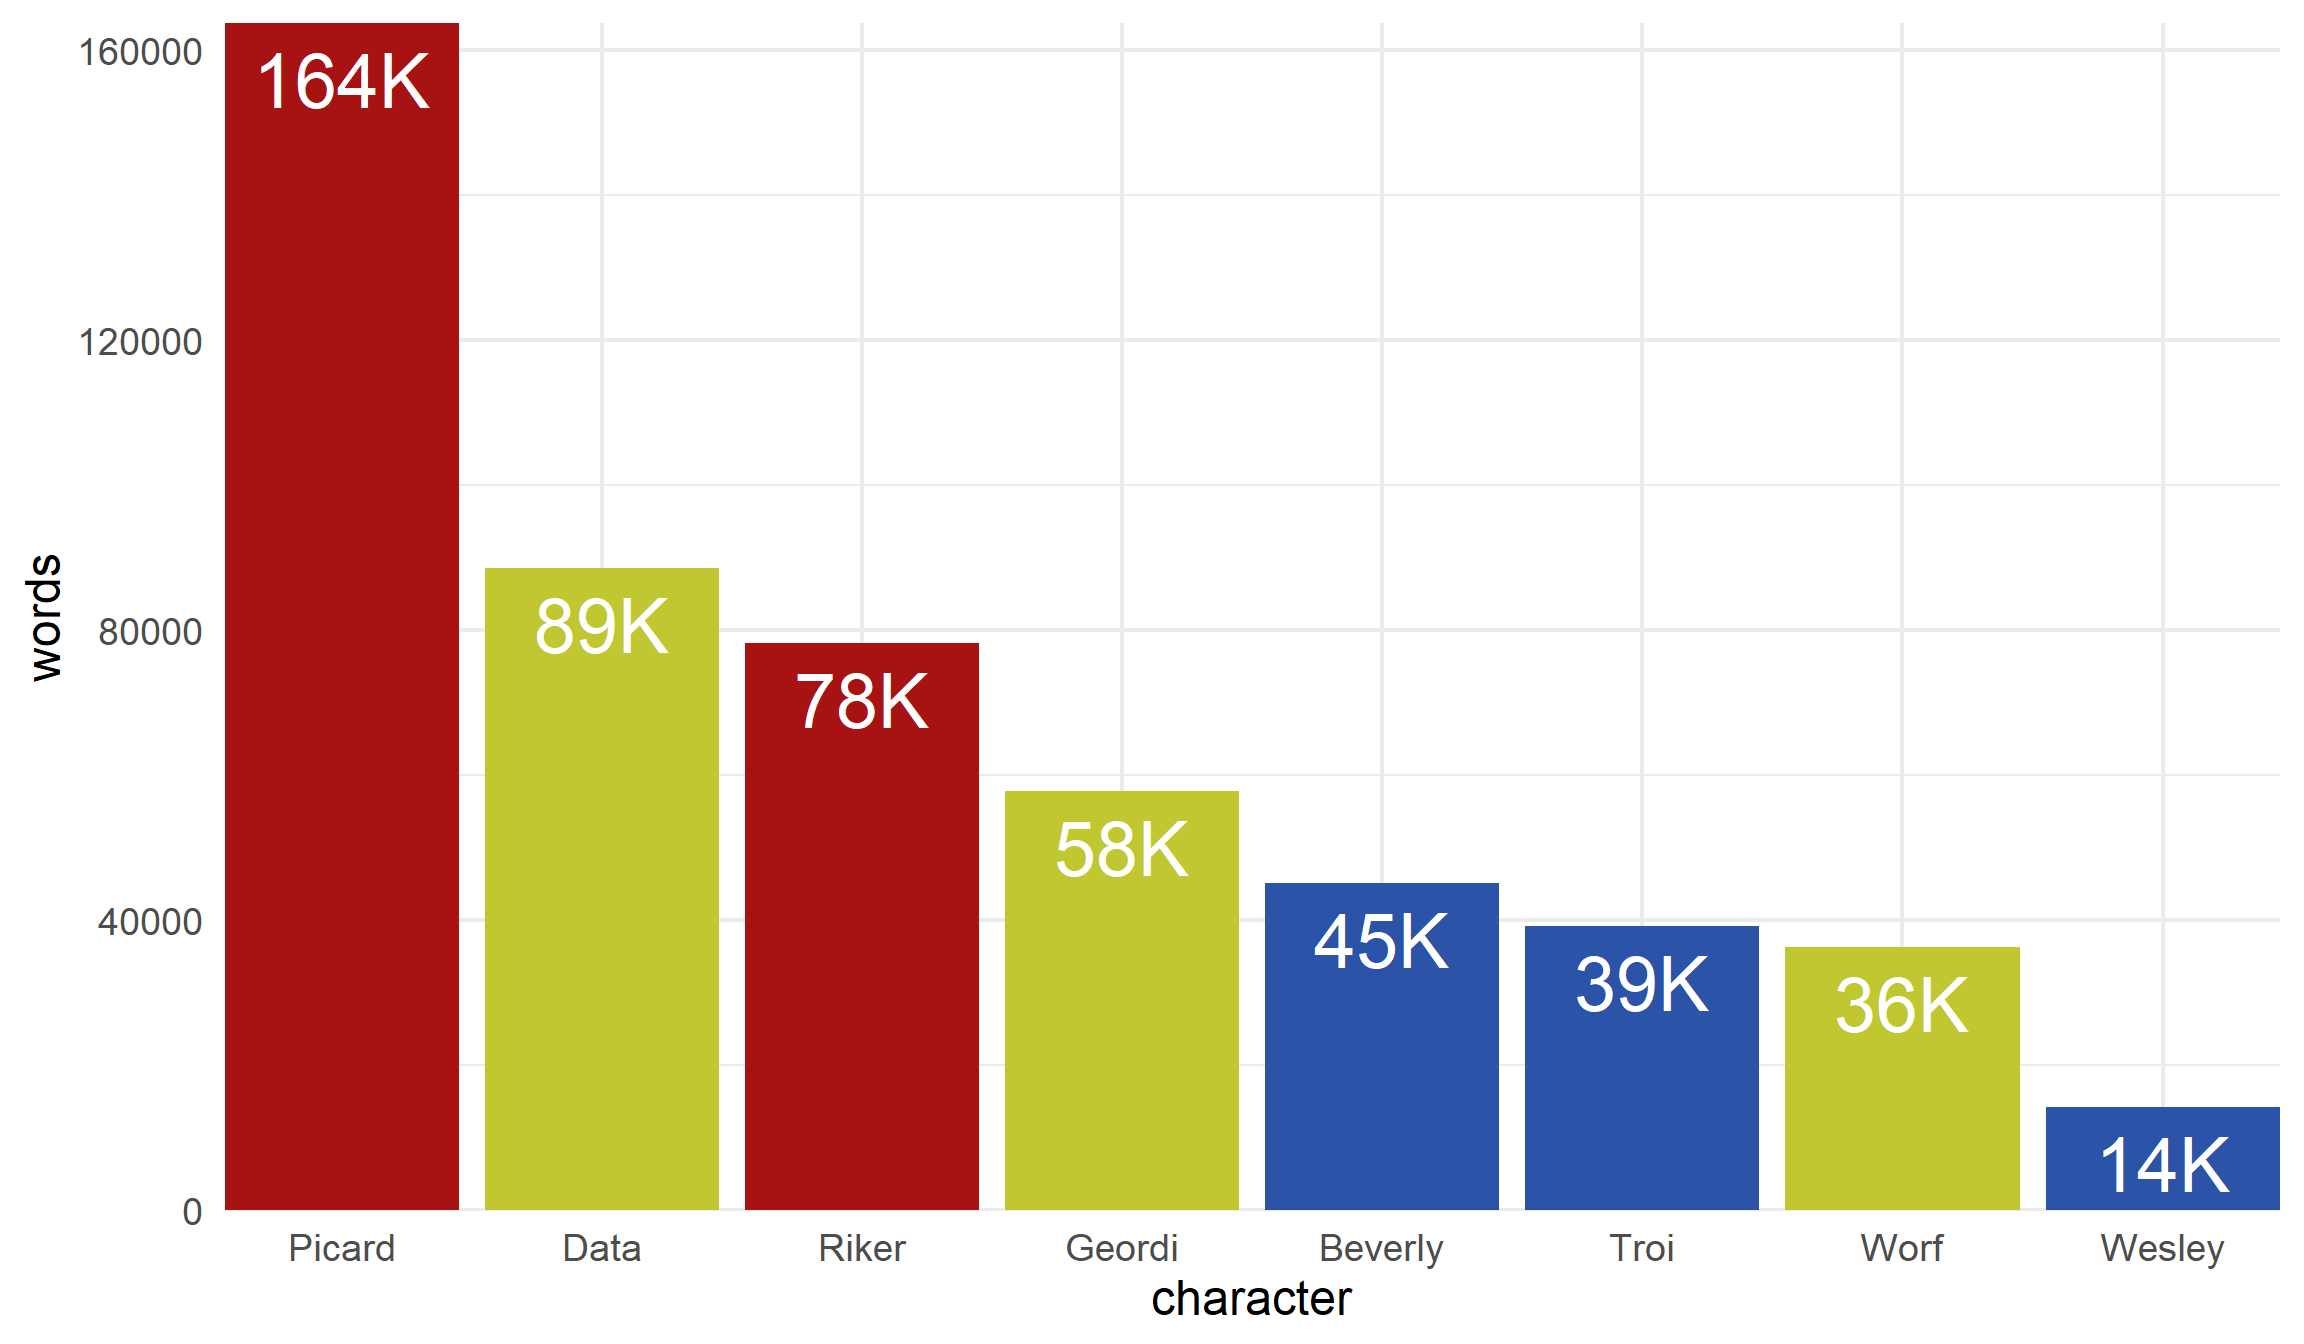
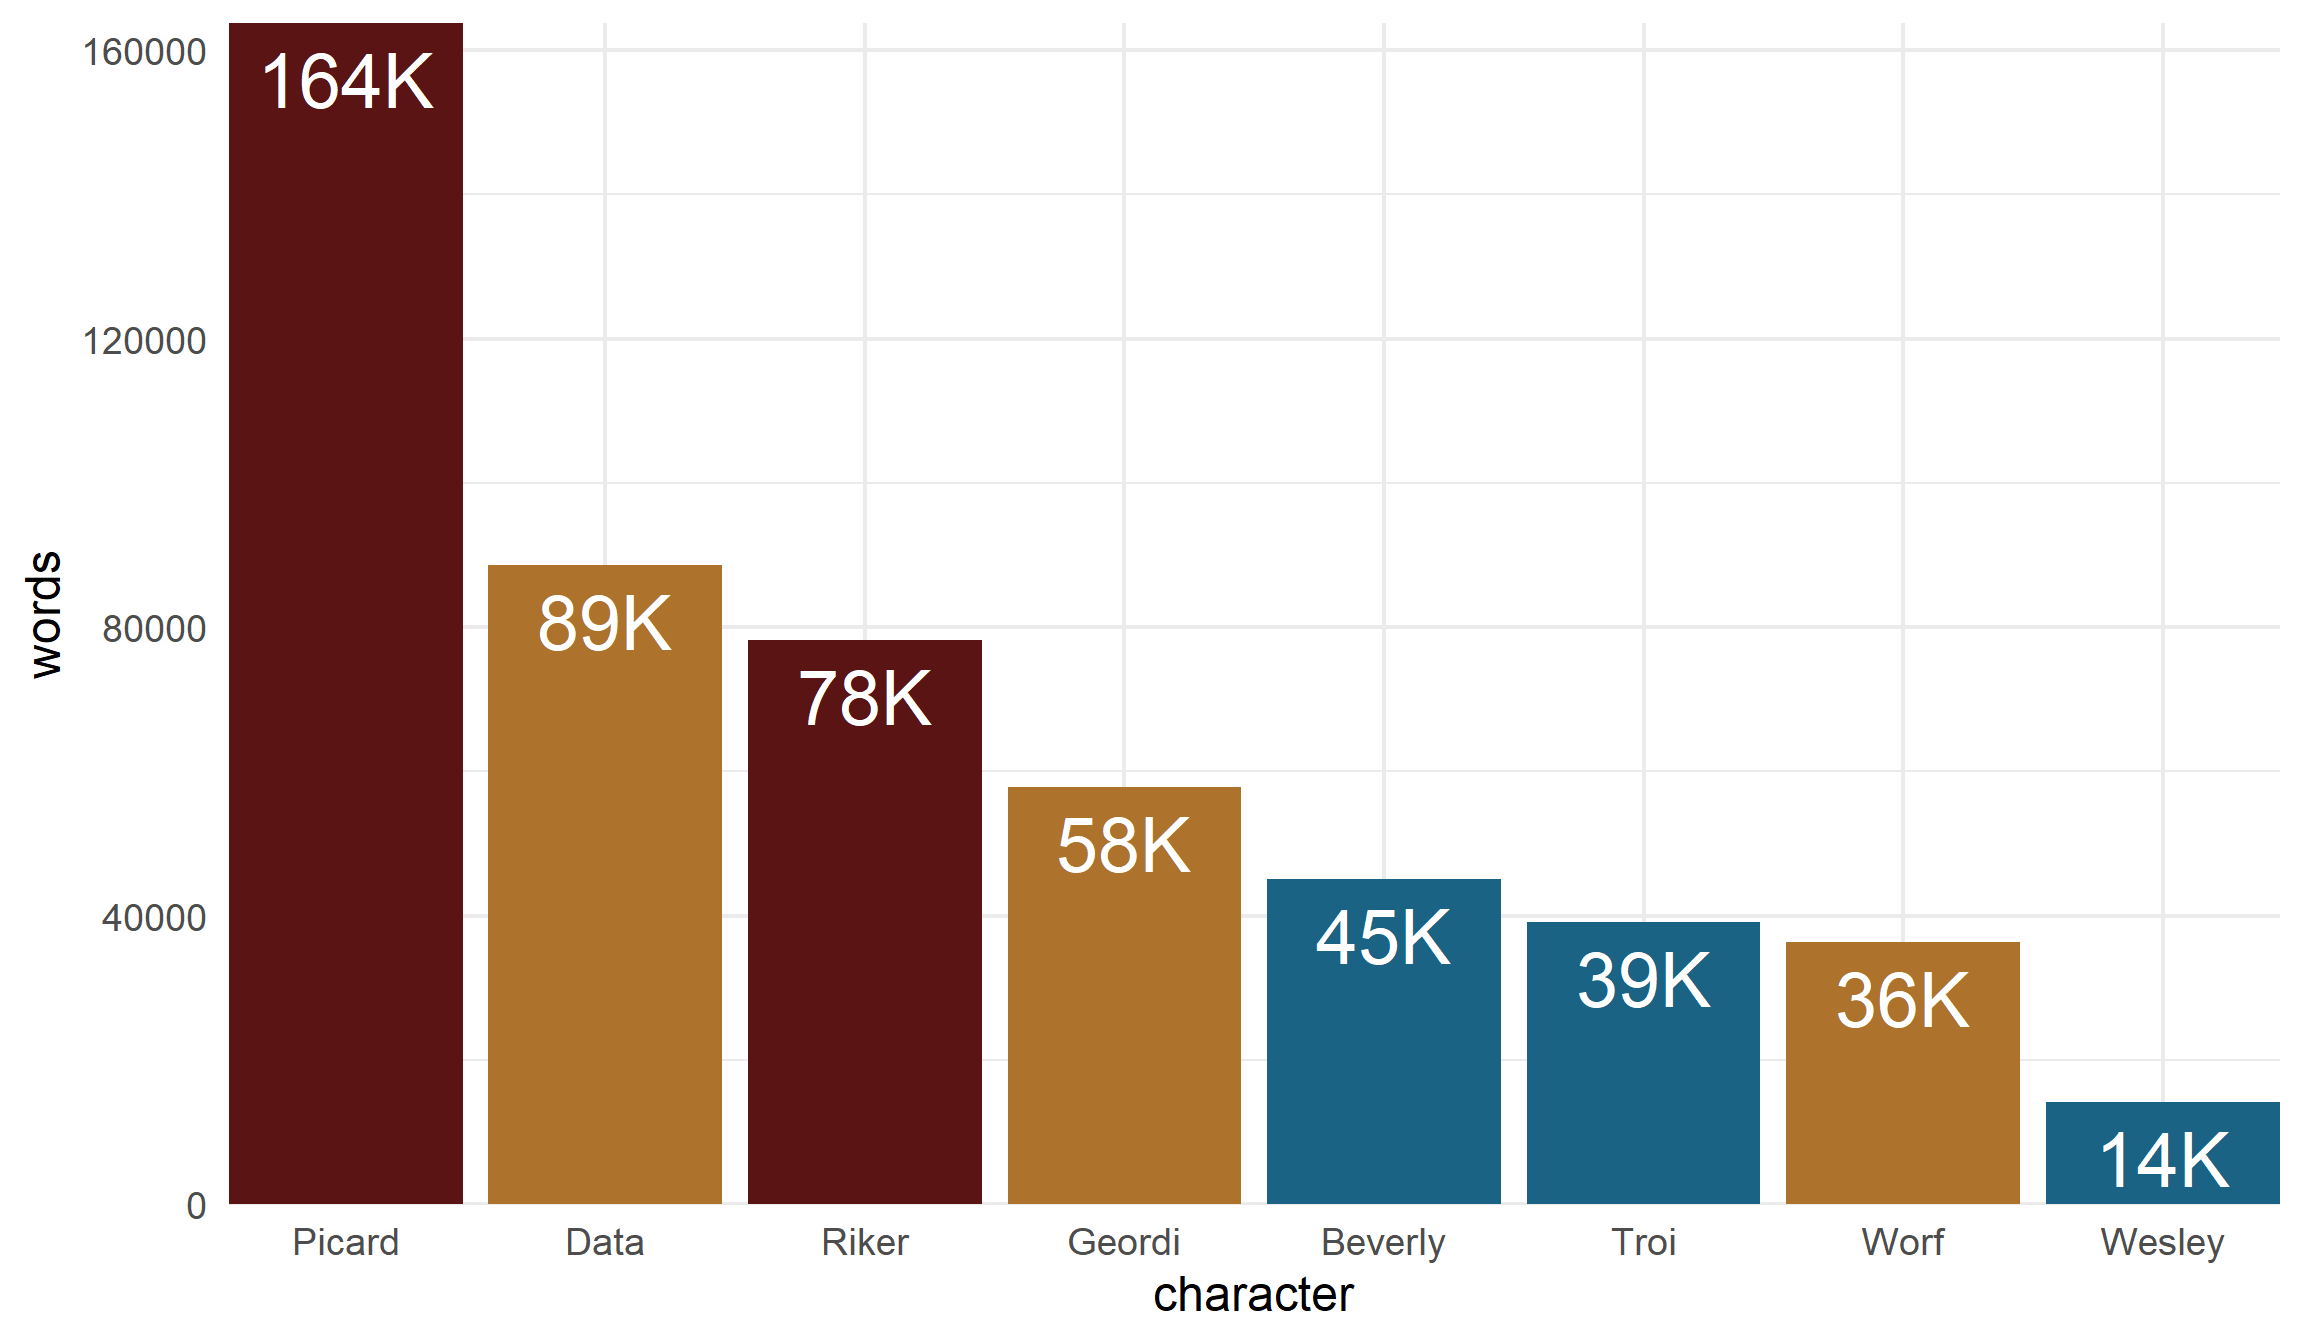
Update vignette.

Changed region(s): [[0.0, 0.0, 1.0, 1.0]]

diff --git a/docs/articles/ex-episode-analysis.html b/docs/articles/ex-episode-analysis.html
@@ -225,7 +225,7 @@
 <p>By the way, look at the total estimated lines and words spoken by each character. These are of course rough estimates. Nevertheless, it is interesting to see that Picard has nearly twice as much to say as the next most talkative character on the show, the Android, Data. It must be all those impromptu diplomatic speeches.</p>
 <div class="sourceCode" id="cb4"><pre class="sourceCode r"><code class="sourceCode r"><a class="sourceLine" id="cb4-1" title="1">id &lt;-<span class="st"> </span>totals<span class="op">$</span>character</a>
 <a class="sourceLine" id="cb4-2" title="2">chr &lt;-<span class="st"> </span><span class="kw"><a href="https://www.rdocumentation.org/packages/base/topics/factor">factor</a></span>(totals<span class="op">$</span>character, <span class="dt">levels =</span> id)</a>
-<a class="sourceLine" id="cb4-3" title="3">uniform_colors &lt;-<span class="st"> </span><span class="kw"><a href="https://www.rdocumentation.org/packages/base/topics/c">c</a></span>(<span class="st">"#a71313"</span>, <span class="st">"#c1c730"</span>, <span class="st">"#2b53a7"</span>)</a>
+<a class="sourceLine" id="cb4-3" title="3">uniform_colors &lt;-<span class="st"> </span><span class="kw"><a href="https://www.rdocumentation.org/packages/base/topics/c">c</a></span>(<span class="st">"#5B1414"</span>, <span class="st">"#AD722C"</span>, <span class="st">"#1A6384"</span>)</a>
 <a class="sourceLine" id="cb4-4" title="4">ulev &lt;-<span class="st"> </span><span class="kw"><a href="https://www.rdocumentation.org/packages/base/topics/c">c</a></span>(<span class="st">"Command"</span>, <span class="st">"Operations"</span>, <span class="st">"Science"</span>)</a>
 <a class="sourceLine" id="cb4-5" title="5">uniform &lt;-<span class="st"> </span><span class="kw"><a href="https://www.rdocumentation.org/packages/base/topics/factor">factor</a></span>(ulev[<span class="kw"><a href="https://www.rdocumentation.org/packages/base/topics/c">c</a></span>(<span class="dv">1</span>, <span class="dv">2</span>, <span class="dv">1</span>, <span class="dv">2</span>, <span class="dv">3</span>, <span class="dv">3</span>, <span class="dv">2</span>, <span class="dv">3</span>)], <span class="dt">levels =</span> ulev)</a>
 <a class="sourceLine" id="cb4-6" title="6">totals &lt;-<span class="st"> </span><span class="kw">mutate</span>(totals, <span class="dt">character =</span> chr, <span class="dt">uniform =</span> uniform)</a>
@@ -323,8 +323,14 @@
 <a class="sourceLine" id="cb6-35" title="35"><span class="st">  </span><span class="kw">scale_y_continuous</span>(<span class="dt">expand =</span> <span class="kw"><a href="https://www.rdocumentation.org/packages/base/topics/c">c</a></span>(<span class="dv">0</span>, <span class="dv">0</span>)) <span class="op">+</span></a>
 <a class="sourceLine" id="cb6-36" title="36"><span class="st">  </span><span class="kw">theme_minimal</span>(<span class="dv">18</span>)</a></code></pre></div>
 <p><img src="ex-episode-analysis_files/figure-html/ep6-1.png" width="1152"></p>
-<p>This calculation accounts for the number of episodes each character has speaking lines in. TNG episodes missing O’Brien after DS9 began and DS9 episodes missing Worf before he joined the show are not counted against them. It does not account for episodes where a character may appear in an episode but without any speaking lines, which should drop their averages. However, this is rare (if it occurs at all?).</p>
-<p>The results are interesting. Starfleet promotions in rank aside, Worf did not even quite receive a 10% pay bump in terms of average spoken words per episode. On the other hand, O’Brien had an increase of 211%, or more than triple the average number of spoken words per episode when moving from the Enterprise to Deep Space Nine. All things considered, take the transfer. But on spoken words alone, O’Brien was clearly favored. The squeaky wheel gets the grease.</p>
+<p>This is a simple exploration of the data, but the results are interesting. Starfleet promotions in rank aside, Worf did not even quite receive a 10% pay bump in terms of average spoken words per episode. On the other hand, O’Brien had an increase of 211%, or more than triple the average number of spoken words per episode when moving from the Enterprise to Deep Space Nine. All things considered, take the transfer. But on spoken words alone, O’Brien was clearly favored. The squeaky wheel gets the grease.</p>
+<div id="considerations" class="section level3">
+<h3 class="hasAnchor">
+<a href="#considerations" class="anchor"></a>Considerations</h3>
+<p>This calculation accounts for the number of episodes each character has speaking lines in. For example, TNG episodes missing O’Brien after DS9 began and DS9 episodes missing Worf before he joined the show are not counted against them.</p>
+<p>It does not account for episodes where a character may appear in an episode, but without any speaking lines, which should drop their averages. However, this is rare and, if anything, I would expect it to exacerbate the difference seen here rather than diminish it. I’m just guessing there may have been some early TNG episodes where O’Brien was shown but never spoke.</p>
+<p>A more rigorous approach that I may show in a subsequent example would be to join this transcript data with episode casting data from STAPI so that there is no need to rely on speaking lines in transcripts to guess at whether someone was featured in an episode.</p>
+</div>
 </div>
   </div>
 
